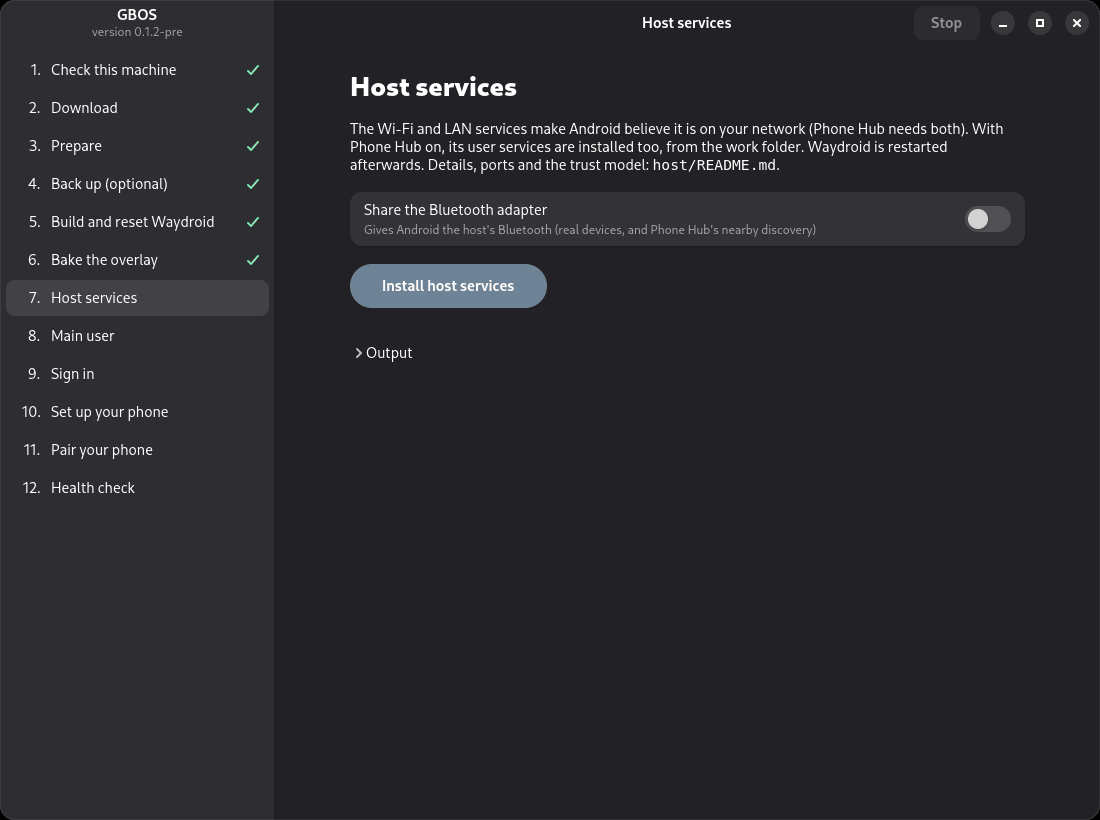
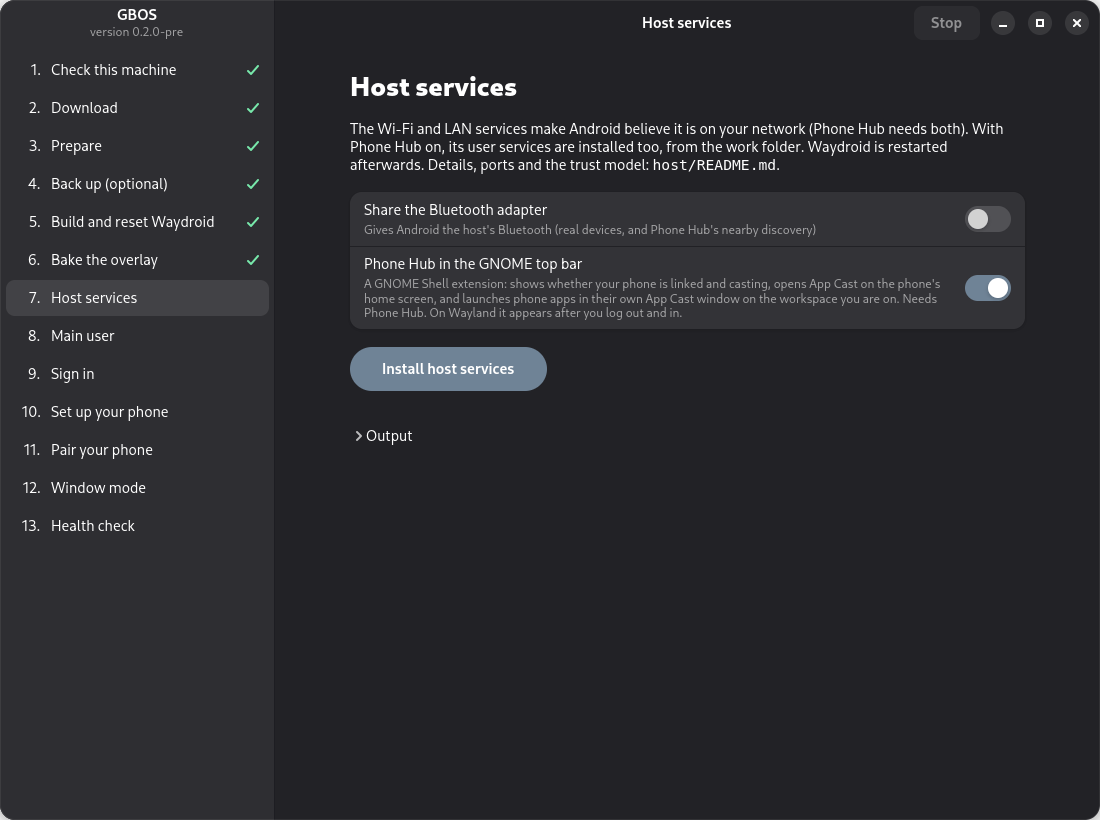
Installer and README catch up with v0.2.0: GNOME extension, ShellCast, window mode
- GUI: Host services page gets a "Phone Hub in the GNOME top bar" switch that runs
  install-host.sh gnome-extension (GNOME sessions with Phone Hub on); download page
  names all four Android programs; phone setup leaves accessibility off by default
  (ShellCast agent handles picture, sound and touch); pair page covers the QS tile,
  GNOME launcher, audio switching and Continue On
- doctor: reports the multi-window / Continue On baked files on their own ("re-run
  Prepare"), cast stream state, and whether the GNOME extension is installed
- README: feature summary, updated steps 2/7/10/11, new step 12 Window mode,
  health check becomes step 13; installer screenshots re-rendered (13 steps)

diff --git a/installer/gbos-installer-gui.py b/installer/gbos-installer-gui.py
@@ -54,7 +54,7 @@ STATUS_ICON = {"ok": ("object-select-symbolic", "success"), "warn": ("dialog-war
 
 DEFAULTS = {"downloads": str(HOME / "gbos" / "dl"), "work": str(HOME / "gbos" / "work"),
             "backups": str(HOME / "gbos" / "backups"), "source": "prebuilt", "phone_hub": True, "bluetooth": False,
-            "multi_windows": False, "phone_accessibility": True, "phone_addr": "", "addons": str(HOME / "gbos" / "addons"),
+            "multi_windows": False, "phone_accessibility": False, "gnome_extension": True, "phone_addr": "", "addons": str(HOME / "gbos" / "addons"),
             "kernel_tree": "", "done": {}}
 
 
@@ -699,10 +699,11 @@ class Window(Adw.ApplicationWindow):
                  "Android build toolchain. Every file is checked against <tt>sources.lock</tt>; a file that does not match "
                  "is deleted. You can stop and start again: downloads resume.",
                  "Download")
-        g = Adw.PreferencesGroup(title="Two small Android programs",
-                                 description="input-bridge and vpd-stub run inside Android. Either is the same bytes: the "
-                                             "NDK build is reproducible and the downloads are checked against "
-                                             "prebuilt.sha256.")
+        g = Adw.PreferencesGroup(title="Small Android programs",
+                                 description="Four small programs run inside Android: input-bridge and vpd-stub, and "
+                                             "libgb-sf-waydroid.so and libgb-hwc-waydroid.so for multi-window mode. "
+                                             "Either way it is the same bytes: the NDK build is reproducible and the "
+                                             "downloads are checked against prebuilt.sha256.")
         pre = Adw.ActionRow(title="Download the prebuilt ones from the release", subtitle="small, recommended")
         ndk = Adw.ActionRow(title="Build them yourself with the Android NDK", subtitle="adds a 660 MB download")
         r1 = Gtk.CheckButton(active=self.cfg["source"] == "prebuilt")
@@ -842,7 +843,16 @@ class Window(Adw.ApplicationWindow):
         g = Adw.PreferencesGroup()
         g.add(switch_row(self, "Share the Bluetooth adapter", "Gives Android the host's Bluetooth (real devices, "
                                                                "and Phone Hub's nearby discovery)", "bluetooth"))
+        gnome = "GNOME" in os.environ.get("XDG_CURRENT_DESKTOP", "").upper()
+        ext = switch_row(self, "Phone Hub in the GNOME top bar",
+                         "A GNOME Shell extension: shows whether your phone is linked and casting, opens App Cast "
+                         "on the phone's home screen, and launches phone apps in their own App Cast window on the "
+                         "workspace you are on. Needs Phone Hub. On Wayland it appears after you log out and in."
+                         if gnome else "Only for the GNOME desktop, which this session is not running.",
+                         "gnome_extension")
+        g.add(ext)
         p.options.append(g)
+        p.widget.connect("map", lambda *_a: ext.set_sensitive(gnome and bool(self.cfg["phone_hub"])))
 
         def go(_b):
             parts = ["system", "lan", "wifi"] + (["bt"] if self.cfg["bluetooth"] else [])
@@ -852,6 +862,8 @@ class Window(Adw.ApplicationWindow):
                         title="sudo host/install-host.sh %s ; sudo waydroid container restart" % " ".join(parts))]
             if self.cfg["phone_hub"]:
                 cmds.append(Cmd(argv=[str(REPO / "host" / "install-host.sh"), "phonehub", "--work", self.W]))
+                if gnome and self.cfg["gnome_extension"]:
+                    cmds.append(Cmd(argv=[str(REPO / "host" / "install-host.sh"), "gnome-extension"]))
             cmds.append(self.session_start())
             self.run(p, cmds, then=lambda: self.next_step(p))
         p.run_button.connect("clicked", go)
@@ -934,7 +946,10 @@ class Window(Adw.ApplicationWindow):
                  "<b>Set up phone</b> then installs the app (built by Prepare, signed with your own key), grants the "
                  "permissions it needs (changing developer settings for the Re-arm button, recording the phone's "
                  "sound, notifications), allows its notification access so a phone notification tapped on GBOS opens on "
-                 "the phone, optionally turns on its accessibility service for touch control, and opens it. Every "
+                 "the phone, and opens it. Picture, sound and touch all go through the app's agent, which you start "
+                 "with <b>Re-arm</b> in the next step; it needs no screen-recording prompt and shows no red recording "
+                 "pill. Its accessibility service is an older route to the same thing and stays off unless you switch "
+                 "it on below. Every "
                  "change is read back. Nothing else on the phone is touched; uninstalling GBOS Cast undoes all of it. "
                  "<b>Check phone</b> only reports.",
                  "Set up phone")
@@ -947,9 +962,10 @@ class Window(Adw.ApplicationWindow):
         pair_code = Adw.EntryRow(title="First time only: 6-digit pairing code")
         g.add(pair_addr)
         g.add(pair_code)
-        g.add(switch_row(self, "Touch control through accessibility",
-                         "Optional. The app's touch agent does the same job, and Android's Advanced Protection blocks "
-                         "this for apps from outside the Play Store", "phone_accessibility"))
+        g.add(switch_row(self, "Also turn on touch control through accessibility",
+                         "Not needed: the app's agent already handles touch. Only for phones where the agent cannot "
+                         "start. Android's Advanced Protection blocks it for apps from outside the Play Store",
+                         "phone_accessibility"))
         p.options.append(g)
         tool = REPO / "host" / "phonehub" / "gb-phone-setup.sh"
 
@@ -981,12 +997,17 @@ class Window(Adw.ApplicationWindow):
     def page_phone(self):
         p = Page(self, "phone", "Pair your phone",
                  "With the phone set up (previous step), finish at the phone and in GBOS:\n\n"
-                 "1. In <b>GBOS Cast</b> on the phone, press <b>Re-arm touch forwarding</b> once (it starts the touch "
-                 "agent; needed again only after the phone reboots). Wireless debugging can be switched off "
+                 "1. In <b>GBOS Cast</b> on the phone, press <b>Re-arm touch forwarding</b> once (it starts the agent "
+                 "that sends the picture, sound and touch; needed again only after the phone reboots). Wireless "
+                 "debugging can be switched off "
                  "afterwards: Re-arm turns it on by itself for a few seconds when it needs it.\n"
                  "2. On the phone, turn on <b>Cross-device services</b> for the account GBOS is signed in with.\n"
                  "3. In GBOS, open the Cross-device services popup and scan its QR code with the phone.\n"
-                 "4. Start casting from the phone app (it finds your PC on its own), or open App Cast in GBOS.\n"
+                 "4. Start casting from the phone app (it finds your PC on its own), or from its <b>GBOS Cast</b> "
+                 "Quick Settings tile (long-press the tile to open the app). Then open App Cast in GBOS, or a phone "
+                 "app from the GNOME top bar. The phone's sound plays on the PC while an App Cast window is open, "
+                 "and on the phone otherwise. Apps open on the phone also show up in GBOS's taskbar as "
+                 "<b>Continue On</b>.\n"
                  "5. Optional: put the <b>Phone Hub widget</b> on the GBOS desktop (right-click the desktop, Widgets, "
                  "\"Phone Hub\"). It shows whether the link is up and has a Reconnect button.\n\n"
                  "The button below shows the state of the Phone Hub services.",

diff --git a/installer/gbos-doctor.py b/installer/gbos-doctor.py
@@ -217,6 +217,14 @@ BAKED = [
     "system/lib64/libaudiohal@7.1.so", "system/lib64/libinputflinger.so", "system/etc/audioctl.apk",
     "system/bin/gb-wifi.sh", "system/etc/fakewifi.apk", "system/etc/bthal.apk", "product/overlay/GbLanWifiOverlay.apk",
 ]
+# Baked by bake-apps.sh only when Prepare built them (v0.2.0 and later); reported on their own, so an older work folder
+# reads as "re-run Prepare", not as a broken bake.
+BAKED_V02 = {
+    "system/bin/gb-surfaceflinger.sh": "multi-window mode", "system/lib64/libgb-sf-waydroid.so": "multi-window mode",
+    "system/bin/gb-hwcomposer.sh": "multi-window mode", "vendor/lib64/libgb-hwc-waydroid.so": "multi-window mode",
+    "system/bin/gb-waydroidplatform.sh": "multi-window mode", "system/etc/waydroid-platform.jar": "multi-window mode",
+    "system/bin/gb-continuity.sh": "Continue On", "system/etc/gb-continuity.jar": "Continue On",
+}
 
 
 def md5_small(path, limit=64 << 20):
@@ -243,6 +251,13 @@ def check_overlay(a):
         warn("overlay", "%d baked file(s) missing, e.g. %s" % (len(missing), missing[0]), "stop Waydroid, then sudo ./bake-apps.sh")
     else:
         ok("overlay", "all %d baked files are present" % len(BAKED))
+    miss2 = [f for f in BAKED_V02 if not os.path.isfile(os.path.join(lower, f))]
+    if miss2:
+        feats = sorted({BAKED_V02[f] for f in miss2})
+        warn("overlay", "%s not baked (missing %s)" % (" and ".join(feats), ", ".join(os.path.basename(f) for f in miss2)),
+             "re-run Prepare from v0.2.0 or later, then stop Waydroid and sudo ./bake-apps.sh")
+    else:
+        ok("overlay", "multi-window and Continue On files are baked")
     # A copy of a baked file in the writable layer WINS over the baked one: a "fix" that does nothing.
     shadows = []
     for dp, _, fs in os.walk(lower):
@@ -285,6 +300,15 @@ def check_services(a, home):
         st = out.strip() or "unknown"
         (ok if st == "active" else warn)("services", "%s (user): %s" % (u, st), "" if st == "active" else "journalctl --user -u %s" % u)
     run = os.environ.get("GB_RUN") or (os.path.join(os.environ["XDG_RUNTIME_DIR"], "gbos") if os.environ.get("XDG_RUNTIME_DIR") else "")
+    if run and os.path.exists(os.path.join(P(home or "/"), ".config/systemd/user/gb-appcast.service")):
+        cast_active = os.path.exists(os.path.join(run, "gb-appcast-cast-active"))
+        info("services", "phone cast stream: %s" % ("active" if cast_active else "off/idle"))
+    if home:
+        ext_js = os.path.join(P(home), ".local/share/gnome-shell/extensions/gbos-phonehub@thewraith420/extension.js")
+        if os.path.exists(ext_js):
+            ok("services", "GNOME Shell Phone Hub extension: installed")
+        else:
+            info("services", "GNOME Shell Phone Hub extension: not installed")
     lock = os.path.join(run, "gb-appcast.lock") if run else ""
     if lock and os.path.exists(lock):
         rc, out = sh(["pgrep", "-f", "appcast_session.py"])

diff --git a/README.md b/README.md
@@ -3,13 +3,21 @@
 Run the Android 17 "Googlebook" system image from a Lenovo Googlebook 15 recovery image inside
 [Waydroid](https://waydro.id) on an ordinary Linux PC, and link it to your Android phone with Phone Hub.
 
+* **Android apps on your Linux desktop.** Use the full Googlebook desktop in one window, or switch on multi-window mode
+  and GBOS apps appear in your app drawer and open in their own windows next to your Linux apps.
+* **Your phone on your PC.** Phone Hub links GBOS to your Android phone: notifications, Do Not Disturb, phone files, and
+  **App Cast**, which streams phone apps into a window you control with your mouse and keyboard, with the sound on your
+  PC. **Continue On** picks up the app you have open on the phone.
+* **Phone Hub in the GNOME top bar.** An optional GNOME Shell extension shows the link and opens any phone app in App
+  Cast.
+
 **Unofficial and experimental.** This is a hobby bring-up, developed and tested on one laptop and one phone. It is not
 affiliated with or endorsed by Google, Lenovo or the Waydroid project. "Googlebook", "Android", "Pixel" and
 "Chromium" belong to their owners.
 
 <picture>
   <source media="(prefers-color-scheme: dark)" srcset="assets/screenshots/01-check-dark.png">
-  <img alt="The GBOS installer: a sidebar of twelve steps, with the machine check reporting Ready to install" src="assets/screenshots/01-check-light.png" width="860">
+  <img alt="The GBOS installer: a sidebar of thirteen steps, with the machine check reporting Ready to install" src="assets/screenshots/01-check-light.png" width="860">
 </picture>
 
 ## Before you start
@@ -57,7 +65,7 @@ and installs your kernel's headers first if they are missing:
 
 About 10 GB from the original publishers (Google's recovery image, the Waydroid Android 16 images, an upstream WebView,
 the Android build tools). Every file is checked against its published checksum. You can stop and start again: it
-resumes. Leave the **prebuilt** option on unless you want to build two small helper programs yourself.
+resumes. Leave the **prebuilt** option on unless you want to build the four small Android programs yourself.
 
 <picture>
   <source media="(prefers-color-scheme: dark)" srcset="assets/screenshots/02-download-dark.png">
@@ -108,7 +116,8 @@ slow**; give it several minutes.
 ### 7. Host services
 
 Gives Android Wi-Fi and a presence on your network (Phone Hub needs both) and, with Phone Hub on, installs its services
-on your PC. Switch on **Share the Bluetooth adapter** if you want Android to use your PC's Bluetooth.
+on your PC. Switch on **Share the Bluetooth adapter** if you want Android to use your PC's Bluetooth. On GNOME, leave
+**Phone Hub in the GNOME top bar** on to install the extension (on Wayland it appears after you log out and back in).
 
 <picture>
   <source media="(prefers-color-scheme: dark)" srcset="assets/screenshots/07-host-dark.png">
@@ -139,8 +148,10 @@ In GBOS, sign in with the Google account **you use on your phone**, from the **F
 
 On your Android phone (Android 14 or newer) turn on **Wireless debugging** in Developer options and copy its address and
 port into the page; the first time, also the pairing address and code from *Pair device with pairing code*. **Set up
-phone** installs the companion app GBOS Cast, grants the permissions it needs, allows its notification access, optionally
-turns on touch control, and checks that each change took.
+phone** installs the companion app GBOS Cast, grants the permissions it needs, allows its notification access, and
+checks that each change took. Picture, sound and touch all go through GBOS Cast's agent, so there is no screen-recording
+prompt and no red recording pill on the phone. Leave the accessibility switch off unless the agent cannot start on your
+phone.
 
 <picture>
   <source media="(prefers-color-scheme: dark)" srcset="assets/screenshots/10-phonesetup-dark.png">
@@ -150,22 +161,35 @@ turns on touch control, and checks that each change took.
 ### 11. Pair your phone
 
 In GBOS Cast press **Re-arm touch forwarding** once, turn on Cross-device services on the phone, and scan the QR code
-GBOS shows. The page lists each step. Then put the **Phone Hub widget** on the GBOS desktop to see the link and reconnect
-it in one click.
+GBOS shows. The page lists each step. Then start casting from GBOS Cast or its **Quick Settings tile** (long-press the
+tile to open the app), and open a phone app from App Cast in GBOS or from the GNOME top bar. The phone's sound plays on
+the PC while an App Cast window is open, and on the phone when none is. Put the **Phone Hub widget** on the GBOS desktop
+to see the link and reconnect it in one click.
 
 <picture>
   <source media="(prefers-color-scheme: dark)" srcset="assets/screenshots/11-phone-dark.png">
   <img alt="The pair-your-phone page listing the steps" src="assets/screenshots/11-phone-light.png" width="760">
 </picture>
 
-### 12. Health check
+### 12. Window mode
+
+Choose how GBOS shows up on your desktop. **Single-window** (the default) keeps the whole Googlebook desktop in one
+window. **Multi-window** puts GBOS apps in your Linux app drawer, each opening in its own window; you can still open the
+full desktop any time (`waydroid show-full-ui`). Switching restarts Waydroid and never touches your apps or data.
+
+<picture>
+  <source media="(prefers-color-scheme: dark)" srcset="assets/screenshots/12-window-mode-dark.png">
+  <img alt="The window mode page with the multi-window switch" src="assets/screenshots/12-window-mode-light.png" width="760">
+</picture>
+
+### 13. Health check
 
 A read-only check of the whole install. Anything it flags comes with the command that fixes it. Run it whenever
 something seems off. **Start GBOS** opens it.
 
 <picture>
-  <source media="(prefers-color-scheme: dark)" srcset="assets/screenshots/12-doctor-dark.png">
-  <img alt="The health check reporting nothing broken" src="assets/screenshots/12-doctor-light.png" width="760">
+  <source media="(prefers-color-scheme: dark)" srcset="assets/screenshots/13-doctor-dark.png">
+  <img alt="The health check reporting nothing broken" src="assets/screenshots/13-doctor-light.png" width="760">
 </picture>
 
 The screenshots are the real installer, showing output from a real install on the developer's machine (home folders
